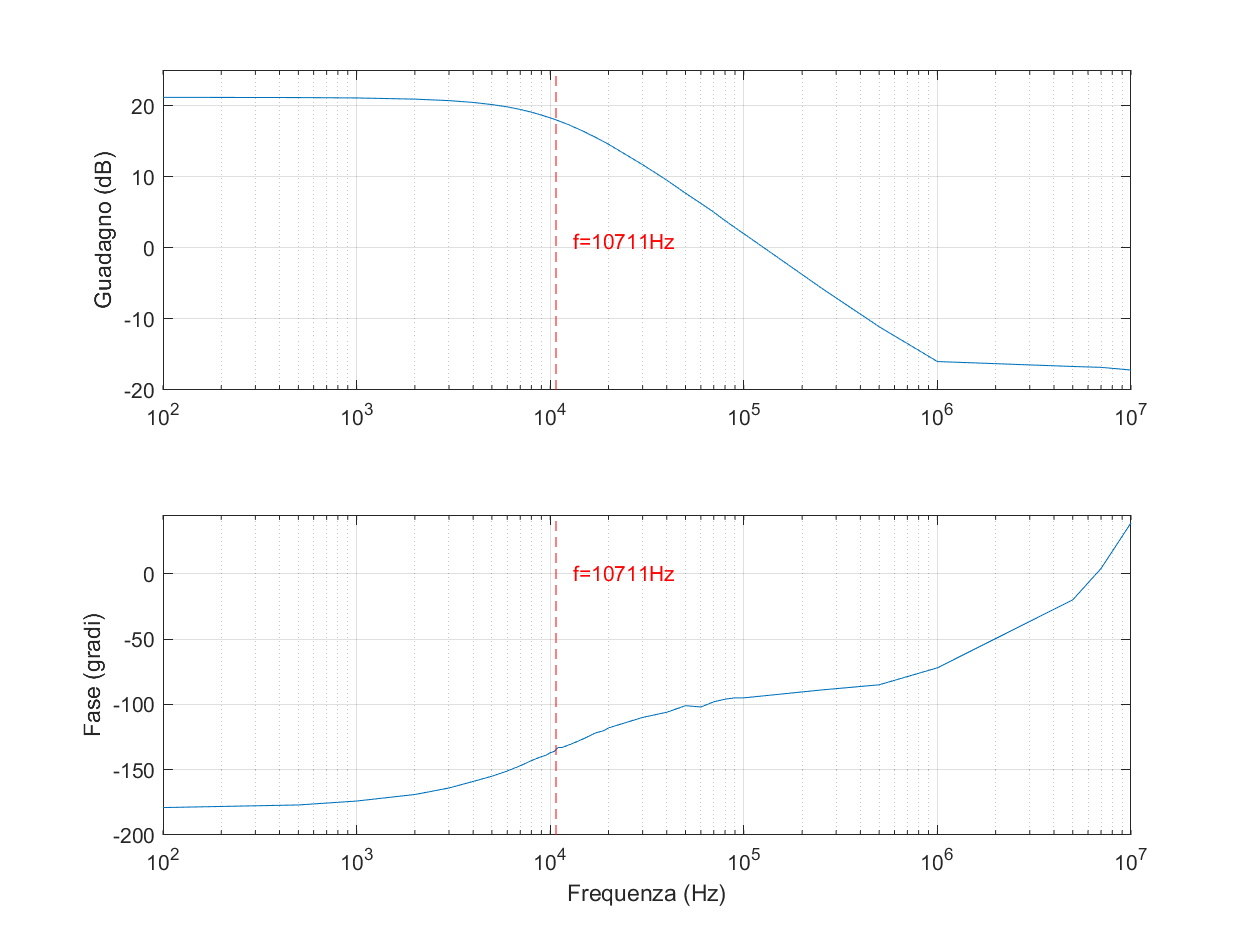
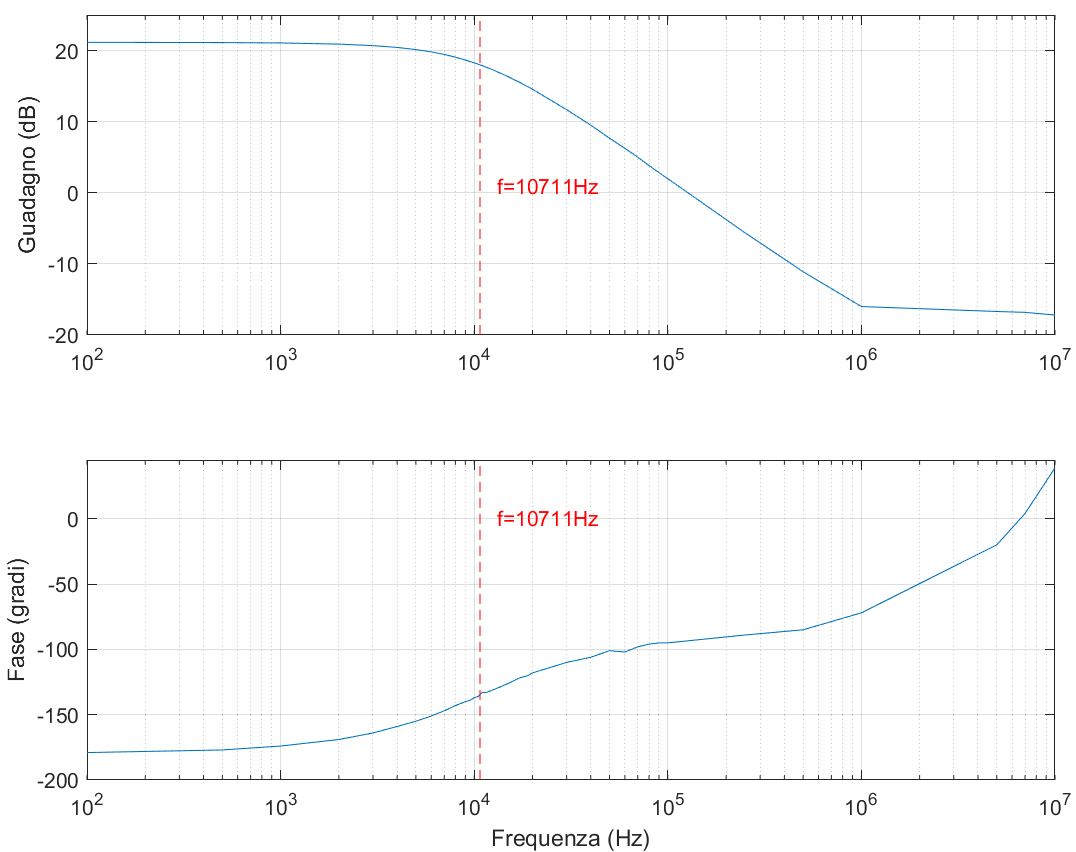
revision of errors and text.

diff --git a/TextFiles/Laboratorio 1.tex b/TextFiles/Laboratorio 1.tex
@@ -39,6 +39,7 @@ Questa funzione di trasferimento corrisponde a un filtro passa basso. È possibi
 		|T|&=\frac{R_1}{R_2}\frac{1}{\sqrt{1+(wR_1C_1)^2}} \\
 		\angle T&=\SI{180}{\degree}-arctan(\omega R_1 C_1).
 	\end{split}
+	\label{eq:1.3}
 \end{equation}
 Per comprendere l'andamento del modulo e della fase in funzione della frequenza del segnale applicato in ingresso, è necessario analizzare i termini dipendenti da $\omega$ nelle due equazioni. Nell'espressione del modulo della funzione di trasferimento, il termine 
 \begin{equation}
@@ -58,9 +59,7 @@ mentre nell'espressione della fase, il termine
 	\end{cases}
 	.
 \end{equation}
-
-
-Il modulo quindi tende a $\frac{R_1}{R_2}$ per segnali in ingresso a bassa frequenza, mentre tende a zero per segnali in ingresso ad alta frequenza, mentre la fase è pari a circa \SI{180}{\degree} per segnali a bassa frequenza, e tende a \SI{90}{\degree} per segnali ad alta frequenza.\todo{da sistemare questa parte}
+Il modulo quindi tende a $\frac{R_1}{R_2}$ per segnali in ingresso a bassa frequenza, mentre tende a zero per segnali in ingresso ad alta frequenza, mentre la fase è pari a circa \SI{180}{\degree} per segnali a bassa frequenza, e tende a \SI{90}{\degree} per segnali ad alta frequenza.
 Il comportamento del circuito è quindi quello di un filtro passa basso invertente del primo ordine, con frequenza di taglio pari a $f=\frac{1}{2\pi R_1C_1}$.
 
 I valori dei componenti passivi sono stati scelti per soddisfare i requisiti di prestazioni del filtro. In particolare, veniva richiesto un guadagno di un fattore 10 con frequenza di taglio pari a \SI{10}{\kilo\hertz}. I valori nominali ed effettivi dei componenti passivi sono riportati in tabella \ref{tab:valori_componenti}.
@@ -69,32 +68,32 @@ I valori dei componenti passivi sono stati scelti per soddisfare i requisiti di 
 	\centering
 	\begin{tabular}{|c|c|c|}
 		\hline
-		Componente	& Valore Nominale & Valore Effettivo \\ \hline
-		R1          & 3.3K\si{\ohm} &                   \\ \hline
-		R2          & 38K\si{\ohm} &                   \\ \hline
-		C1          & 390p\si{\farad} &                   \\ \hline
+		Componente	& Valore Nominale & Valore Misurato \\ \hline
+		R\sub{1}          & \SI{38}{\kilo\ohm} &     \SI{38.10}{\kilo\ohm}  \\ \hline
+		R\sub{2}          & \SI{3.3}{\kilo\ohm} &      \SI{3.29}{\kilo\ohm} \\ \hline
+		C\sub{1}          & \SI{390}{\pico\farad} &   Non misurabile  \\ \hline
 		
 	\end{tabular}
-	\caption{Valori nominali ed effettivi dei componenti passivi del circuito.}
+	\caption{Valori nominali e misurati dei componenti passivi del circuito.}
 	\label{tab:valori_componenti}
 \end{table}
 
-Attraverso un generatore di funzioni è stato applicato in ingresso al circuito una sinusoide con ampiezza picco-picco pari a \SI{500}{\milli\volt} e frequenza compresa tra \SI{100}{\hertz} e \SI{10}{\mega\hertz}. Tramite l'oscilloscopio sono state ottenute le misure di ampiezza picco-picco del segnale in uscita al circuito e la differenza di fase tra il segnale in ingresso e quello in uscita. Grazie a questi valori sono stati ricostruiti i diagrammi di Bode di modulo e fase del circuito, riportati in figura \ref{fig:diagrammi_di_Bode}.
+Attraverso un generatore di forme d'onda sono stati applicati in ingresso al circuito dei segnali sinusoidali con ampiezza picco-picco pari a \SI{500}{\milli\volt} e frequenza compresa tra i \SI{100}{\hertz} e i \SI{10}{\mega\hertz}. Tramite l'oscilloscopio sono state ottenute le misure di ampiezza picco-picco del segnale in uscita al circuito e la differenza di fase tra il segnale in ingresso e quello in uscita. Grazie a questi valori sono stati ricostruiti i diagrammi di Bode di modulo e fase del circuito, riportati in figura \ref{fig:diagrammi_di_Bode}.
 
 \begin{figure}[h!]
 	\centering
-	\includegraphics[width=\linewidth]{./ImageFiles/Laboratorio 1/Diagrammi di Bode.png}
+	\includegraphics[width=0.80\linewidth]{./ImageFiles/Laboratorio 1/Diagrammi di Bode.png}
 	\caption{Diagrammi di Bode del filtro passa basso attivo del primo ordine.}
 	\label{fig:diagrammi_di_Bode}
 \end{figure}
 
 Dai diagrammi di Bode della funzione di trasferimento si può osservare il comportamento del filtro passa basso:
 \begin{itemize}
-	\item osservando il diagramma di Bode del modulo si può notare che fino alla frequenza di taglio del circuito, che è pari a \SI{10711}{\hertz}, il segnale in ingresso viene amplificato di circa \SI{20}{\decibel}, mentre per valori superiori alla frequenza di taglio viene attenuato con una pendenza pari a \SI{20}{\decibel}/dec;
-	\item osservando il diagramma di Bode della fase si può notare che, in corrispondenza della frequenza di taglio, la fase è diminuita di circa 45$^{\circ}$rispetto alle frequenza più basse, mentre una decade dopo la frequenza di taglio raggiunge i -90$^{\circ}$.
+	\item osservando il diagramma di Bode del modulo si può notare che fino alla frequenza di taglio, che è pari a \SI{10711}{\hertz}, il segnale in ingresso viene amplificato di circa \SI{20}{\decibel} (guadagno del circuito pari a 11.58, ossia \SI{21.27}{\decibel}), mentre per valori superiori alla frequenza di taglio viene attenuato con una pendenza pari a \SI{20}{\decibel}/dec;
+	\item osservando il diagramma di Bode della fase si può notare che, in corrispondenza della frequenza di taglio, la fase è diminuita\todo{in realtà è aumentata con il nostro sistema di riferimento della fase no?} di circa 45$^{\circ}$rispetto alle frequenza più basse, mentre una decade dopo la frequenza di taglio raggiunge i -90$^{\circ}$.
 \end{itemize}
 
-Tuttavia, per frequenze superiori ad \SI{1}{\mega\hertz}, il comportamento del circuito non è più quello descritto dalla formula \ref{1.3}\todo{link alla equazione}: infatti, a tali frequenze subentrano dei limiti dell'amplificatore operazionale per cui il sistema non è più retroazionato. \todo{Verificare questa informazione, lo ha detto Gaioni ma non è stato preciso}
+Tuttavia, per frequenze superiori ad \SI{1}{\mega\hertz}, il comportamento del circuito non è più quello ideale descritto dalla formula \ref{eq:1.3}: infatti, a tali frequenze subentrano dei limiti e dei comportamenti in frequenza particolari causati dalla banda limitata di funzionamento dell'amplificatore operazionale.
 
 
 
